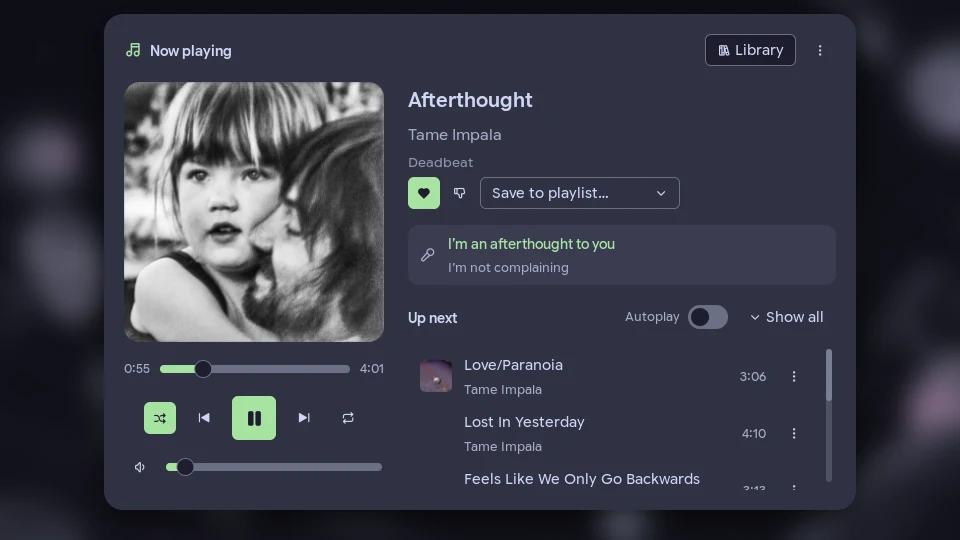
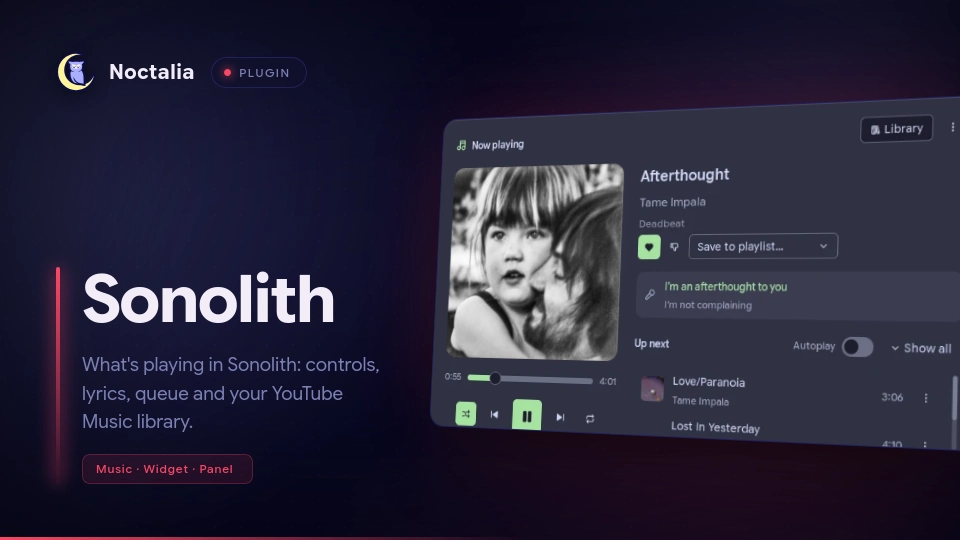
Name the plugin Sonolith, follow the community README template
Tags from the community list, every spawned command in dependencies, a
thumbnail from the Noctalia thumbnail generator, and panel screenshots.
Sonolith's consent screen keeps the longer name.

diff --git a/sonolith/README.md b/sonolith/README.md
@@ -1,107 +1,118 @@
-# Sonolith Noctalia integration
+# Sonolith
 
-What's playing in [Sonolith](https://github.com/opecko/sonolith) (a YouTube Music client), right in your
-Noctalia bar: album art, title and artist, a Now Playing panel with every control you need, and your whole
-library a click away.
-
-![Now Playing panel](thumbnail.webp)
+What's playing in [Sonolith](https://github.com/opecko/sonolith) (a YouTube Music client), right in your bar:
+album art, title and artist, a Now Playing panel with every control you need, and your whole library a click
+away.
 
 ## Plugin
 
 | Field | Value |
 | --- | --- |
 | ID | `opecko/sonolith` |
-| Entries | Service: `service`; bar widget: `bar`; panels: `nowplaying`, `library` |
-| Needs | Noctalia 5.4 or newer (plugin API 43), Sonolith 2.4 or newer, `python3` |
-| Optional | ImageMagick (`magick` or `convert`): scales album art down, which keeps the panels smooth. Secret Service (`secret-tool`): keeps the token in your keyring instead of a user-only file |
+| Entries | Bar widget: `bar`; panels: `nowplaying`, `library`; service: `service` |
 
-## Installation
+## Requirements
 
-Add this repo as a plugin source and enable the plugin:
+- `sonolith` 2.4 or newer, with **Settings → Connected apps → Let other apps connect to Sonolith** turned on.
+- `python3` on `PATH`. The plugin talks to Sonolith through a small bridge script that uses only Python's
+  standard library.
+- `imagemagick` (optional, `magick` or `convert` on `PATH`): scales album art down, which keeps the panels
+  smooth. Without it the original covers are shown.
+- `libsecret` (optional, `secret-tool` on `PATH`, with a Secret Service such as GNOME Keyring or KWallet):
+  keeps the plugin's Sonolith token in your keyring. Without it the token is kept in a user-only file.
 
-```sh
-noctalia msg plugins source add sonolith git https://github.com/opecko/sonolith-noctalia-integration
-noctalia msg plugins enable opecko/sonolith
-```
+## Usage
 
-Then put the bar widget on a bar, either from the bar settings or in your config:
+### Bar widget
+
+Add the `bar` widget to a bar from the bar settings, or in your config:
 
 ```toml
 [widget.sonolith]
 type = "opecko/sonolith:bar"
 ```
 
-and add `"sonolith"` to one of the bar's `start`, `center` or `end` lists.
+and add `"sonolith"` to one of the bar's `start`, `center` or `end` lists. It shows the album art, title and
+artist, dimmed while paused. Left click opens Now Playing, right click plays or pauses, the mouse wheel changes
+the volume (or skips, see `scroll_action`), and middle click opens the widget's settings. On a vertical bar it
+shows the art only, with the song in the tooltip. When Sonolith isn't running or isn't connected, it shows an
+icon and says so in the tooltip.
 
-In Sonolith, turn on **Settings → Connected apps → Let other apps connect to Sonolith**.
+### Connecting
 
-## Connecting
-
-Click the widget and press **Connect to Sonolith**. Sonolith shows a consent screen with what the plugin wants
-to do (see [Permissions](#permissions)); you can untick any optional permission. After you allow it, the plugin
+Open Now Playing and press **Connect to Sonolith**. Sonolith shows a consent screen with what the plugin wants
+to do (see [Notes](#permissions)); you can untick any optional permission. After you allow it, the plugin
 connects on its own every time Noctalia starts. It never asks Sonolith again without you pressing a button,
 and it never starts Sonolith by itself.
 
 **Disconnect from Sonolith** is in the Now Playing panel's ⋮ menu. It removes the plugin from Sonolith and
 deletes its token, also when Sonolith isn't running.
 
-## Using it
+### Now Playing panel
 
-### Bar widget
-
-Album art, title and artist; dimmed while paused. Left click opens Now Playing, right click plays or pauses,
-the mouse wheel changes the volume (or skips, see settings), middle click opens the widget's settings. On a
-vertical bar it shows the art only, with the song in the tooltip. When Sonolith isn't running or isn't
-connected, it shows an icon and says so in the tooltip (or hides, if you prefer).
-
-### Now Playing
+```sh
+noctalia msg panel-toggle opecko/sonolith:nowplaying
+```
 
 Art and controls on the left: seek, previous / play / next, shuffle and repeat, volume (click the speaker to
 mute). For podcast episodes, skip back 10 s / forward 30 s and the speed replace shuffle and repeat. On the
 right: like, dislike and save to playlist, the current lyric line (lit up word by word when Sonolith has word
 timings) with the next one under it, and what's up next with autoplay. A queue entry's ⋮ moves it to play next
-or removes it (right click for the same as a menu).
+or removes it (right click on ⋮ for the same as a menu). **Library** in the header switches to the Library
+panel.
 
-### Library
+### Library panel
+
+```sh
+noctalia msg panel-toggle opecko/sonolith:library
+```
 
 Your playlists, liked songs, albums, artists, podcasts, episodes for later and history, plus search with
 suggestions and filters. Click a playlist, album, artist or podcast to open it; click a song to play it in that
 playlist or album. ▶ on a card plays it; right click on ▶ or on a row's ⋮ for more (play next, add to queue,
 like, save to playlist, go to album or artist, remove from your own playlist). **← Now playing** at the top of
-the rail goes back.
+the rail switches back.
+
+### Service
+
+The `service` entry runs in the background and needs no setup: it owns the connection to Sonolith and feeds
+the bar widget and the panels.
 
 ## Settings
 
 Plugin settings (Settings → Plugins → the gear on this plugin):
 
-| Key | Default | |
-| --- | --- | --- |
-| `volume_step` | `5` | Volume change per wheel step or keybind, in percent |
-| `osd_on_track_change` | `false` | Show the shell OSD with the new song |
-| `np_layout` | `compact` | `compact` or `large_art` (a bigger cover in Now Playing) |
-| `np_show_lyrics` | `true` | Show the current lyric line |
-| `np_show_queue` | `true` | Show what's up next |
-| `np_queue_preview` | `6` | Queue entries shown before "Show all" |
-| `library_default_tab` | `last` | The tab Library opens on |
+| Setting | Type | Default | Description |
+| --- | --- | --- | --- |
+| `volume_step` | `int` | `5` | Volume change per wheel step or keybind, in percent (1–20). |
+| `osd_on_track_change` | `bool` | `false` | Show the shell OSD with the new song's title and artist. |
+| `np_layout` | `select` | `compact` | Now Playing cover size: `compact` (260 px) or `large_art` (340 px). |
+| `np_show_lyrics` | `bool` | `true` | Show the current lyric line in Now Playing. |
+| `np_show_queue` | `bool` | `true` | Show what's up next in Now Playing. |
+| `np_queue_preview` | `int` | `6` | Queue entries shown before **Show all** (1–20). |
+| `library_default_tab` | `select` | `last` | The tab Library opens on: `last`, `playlists`, `liked`, `albums`, `artists`, `podcasts`, `later` or `history`. |
 
-Widget settings (per bar widget):
+Bar widget settings (per widget):
 
-| Key | Default | |
-| --- | --- | --- |
-| `show_art`, `show_title`, `show_artist` | `true` | What to show; all off falls back to an icon |
-| `layout` | `inline` | `inline` (one line) or `stacked` (title over artist) |
-| `text_format` | `{title} · {artist}` | For `inline`; placeholders `{title}`, `{artist}`, `{album}` |
-| `order` | `title_first` | For `stacked`: `title_first` or `artist_first` |
-| `art_size`, `art_radius` | `22`, `6` | In px |
-| `max_width` | `240` | Longer text is cut off with … |
-| `show_state_icon` | `true` | Play/pause icon after the text |
-| `show_progress` | `false` | A thin progress line under the text |
-| `when_idle` | `glyph` | Nothing playing: `glyph`, `hide` or `last_track` |
-| `when_unavailable` | `glyph` | Sonolith not running: `glyph` or `hide` |
-| `scroll_action` | `volume` | Mouse wheel: `volume`, `track` (next/previous) or `none` |
-| `scroll_long_text` | `false` | Long text scrolls instead of being cut off (advanced) |
+| Setting | Type | Default | Description |
+| --- | --- | --- | --- |
+| `show_art` | `bool` | `true` | Show the album art. |
+| `show_title` | `bool` | `true` | Show the title. |
+| `show_artist` | `bool` | `true` | Show the artist. With art, title and artist all off, the widget shows an icon. |
+| `layout` | `select` | `inline` | `inline` (one line) or `stacked` (title over artist). |
+| `text_format` | `string` | `{title} · {artist}` | For `inline`; placeholders `{title}`, `{artist}`, `{album}`. |
+| `order` | `select` | `title_first` | For `stacked`: `title_first` or `artist_first`. |
+| `art_size` | `int` | `22` | Art size in px (14–40). |
+| `art_radius` | `int` | `6` | Art corner radius in px (0–20). |
+| `max_width` | `int` | `240` | Maximum text width in px (60–600); longer text ends with …. |
+| `show_state_icon` | `bool` | `true` | Play/pause icon after the text. |
+| `show_progress` | `bool` | `false` | A thin progress line under the text. |
+| `when_idle` | `select` | `glyph` | When nothing plays: `glyph` (a music icon), `hide`, or `last_track` (keep the last song). |
+| `when_unavailable` | `select` | `glyph` | When Sonolith isn't running: `glyph` or `hide`. |
+| `scroll_action` | `select` | `volume` | Mouse wheel: `volume`, `track` (next / previous song) or `none`. |
+| `scroll_long_text` | `bool` | `false` | Long text scrolls instead of being cut off (advanced). |
 
-## Keybinds (IPC)
+## IPC
 
 Bind these in your compositor:
 
@@ -109,19 +120,43 @@ Bind these in your compositor:
 noctalia msg plugin opecko/sonolith:service all toggle       # play / pause
 noctalia msg plugin opecko/sonolith:service all next
 noctalia msg plugin opecko/sonolith:service all previous
-noctalia msg plugin opecko/sonolith:service all like         # like / remove the like
+noctalia msg plugin opecko/sonolith:service all like         # like the current song, or remove the like
 noctalia msg plugin opecko/sonolith:service all volume-up    # by volume_step
 noctalia msg plugin opecko/sonolith:service all volume-down
 noctalia msg plugin opecko/sonolith:service all open         # toggle Now Playing
 noctalia msg plugin opecko/sonolith:service all library      # toggle Library
-noctalia msg plugin opecko/sonolith:service all connect      # Connect to Sonolith
+noctalia msg plugin opecko/sonolith:service all connect      # Connect to Sonolith (asks for your approval)
 noctalia msg plugin opecko/sonolith:service all disconnect   # Disconnect from Sonolith
 ```
 
-## Permissions
+## Notes
 
-What the plugin asks Sonolith for, as the consent screen shows it. Only "See what's playing" is required;
-anything you untick is simply hidden in the plugin, and the Library offers to ask for library access later.
+### How it works
+
+Noctalia plugins can't open Unix sockets, and Sonolith's API is JSON-RPC over one. The `service` entry runs a
+small Python bridge (`bridge/sonolith-bridge.py`, standard library only) that holds the one connection to
+Sonolith, prints status and events to the service as JSON lines, and runs the panels' commands through a
+private control socket. The bar widget and the panels only read the service's shared state. The plugin uses
+Sonolith's events, not polling; the only extra request is the queue preview after the queue changes.
+
+### Processes, files and network
+
+- **Processes:** `python3` (the bridge daemon, and one short `call` per command from the panels); `secret-tool`
+  (from the bridge, to store, read and clear the token); `magick` or `convert` (to scale album art); `sonolith`
+  (only when you press **Open Sonolith**, once per click).
+- **Files** (all in the plugin's data directory, `~/.local/state/noctalia/plugins/data/opecko/sonolith/`):
+  `sonolith-bridge.py` (a copy of the bridge: Sonolith ties the token to the script's path, and this path stays
+  the same across plugin updates, so an update never asks you to approve the plugin again); `art/` (album art,
+  about 80 covers are kept); `token` (mode 0600, only without a Secret Service). The bridge also creates
+  `$XDG_RUNTIME_DIR/sonolith-noctalia/` (mode 0700) with its control socket and a lock file.
+- **Network:** album art is downloaded from the `thumbnailUrl`s Sonolith reports (YouTube's image servers).
+  Everything else goes to Sonolith over its local Unix socket.
+- The token is never logged, shown, or put on a command line or in shared state.
+
+### Permissions
+
+What the plugin asks Sonolith for, as the consent screen shows it. Only the first is required; anything you
+untick is hidden in the plugin, and the Library panel offers to ask for library access later.
 
 | Scope | Why |
 | --- | --- |
@@ -134,26 +169,15 @@ anything you untick is simply hidden in the plugin, and the Library offers to as
 | `search` | To search YouTube Music |
 | `library:write` | To like songs and save them to playlists |
 
-## How it works
+### Troubleshooting
 
-Noctalia plugins can't open Unix sockets, and Sonolith's API is JSON-RPC over one. The plugin's service runs a
-small Python bridge (`bridge/sonolith-bridge.py`, standard library only) that holds the one connection to
-Sonolith, prints status and events to the service as JSON lines, and runs the panels' commands through a
-private control socket in `$XDG_RUNTIME_DIR/sonolith-noctalia/`. The bar and panels only read the service's
-shared state.
+- **"Sonolith isn't running, or Connected apps are off"**: start Sonolith and turn on Settings → Connected
+  apps → Let other apps connect to Sonolith. The plugin notices within a second.
+- **"Python 3 is required"**: install `python3`.
+- **The panels feel slow with lots of covers**: install `imagemagick`.
+- Logs: `grep sonolith ~/.cache/noctalia/noctalia.log`.
 
-- The bridge runs from a copy in the plugin's data directory
-  (`~/.local/state/noctalia/plugins/data/opecko/sonolith/`). Sonolith ties the token to the script's path,
-  and that copy keeps the same path across plugin updates, so an update never asks you to approve the plugin
-  again.
-- The token lives in the Secret Service (`secret-tool`), or in a user-only file in that directory when there
-  is no keyring. It is never logged, shown or put on a command line.
-- Album art is downloaded into `art/` in the same directory (about 80 covers are kept). With ImageMagick, each
-  cover is kept as a 512 px and a 128 px copy.
-- The plugin uses Sonolith's events, not polling: the only extra request is the queue preview after the queue
-  changes.
-
-## Sonolith integration checklist
+### Sonolith integration checklist
 
 From the [Sonolith API spec](https://github.com/opecko/sonolith/blob/master/api/SPEC.md):
 
@@ -182,13 +206,5 @@ From the [Sonolith API spec](https://github.com/opecko/sonolith/blob/master/api/
 - [x] 16. Tested with Sonolith not running, the API off, and Sonolith quitting mid-session
 - [x] 17. Tested deny, block, expiry, an unticked optional scope, removal in Sonolith while connected, and
   disconnect
-
-## Troubleshooting
-
-- **"Sonolith isn't running, or Connected apps are off"**: start Sonolith and turn on Settings → Connected
-  apps → Let other apps connect to Sonolith. The plugin notices within a second.
-- **"Python 3 is required"**: install `python3`.
-- **The panels feel slow with lots of covers**: install ImageMagick.
-- Logs: `grep sonolith ~/.cache/noctalia/noctalia.log`.
 
 Uses [Sonolith](https://github.com/opecko/sonolith).

diff --git a/README.md b/README.md
@@ -1,4 +1,4 @@
-# Sonolith Noctalia integration
+# Sonolith for Noctalia
 
 Noctalia plugin source repo.
 
